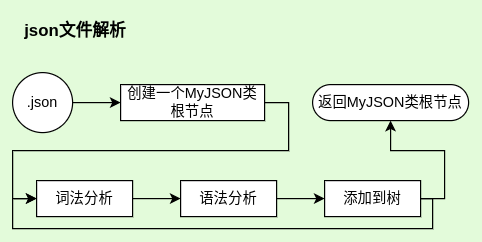
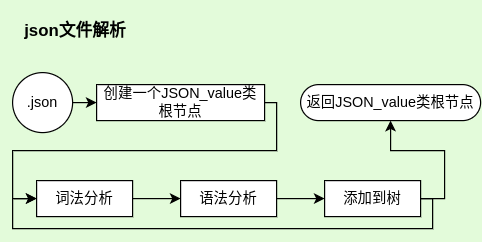
2024.7.15开始构建自己的库

Changed region(s): [[0.5602, 0.3471, 1.0, 0.6364], [0.1556, 0.3471, 0.529, 0.5207]]

diff --git a/MyJSON.h b/MyJSON.h
@@ -1,0 +1,136 @@
+#pragma once
+
+#include<iostream>
+#include<sstream>
+#include<unordered_map>
+#include<vector>
+
+namespace MyJSON
+{
+	/*----------类定义----------*/
+	enum JSONTYPE{Jinitial, Jobject, Jarray,
+					Jstring, Jnumber, Jbool, Jnull};
+	class JSON_value
+	{
+		JSON_value* left = nullptr;
+		JSON_value* right = nullptr;
+		JSONTYPE type = Jinitial;
+
+	public:
+		JSONTYPE Get_type(){return type;}
+
+		JSON_value* Get_left(){return left;}
+		JSON_value* Get_right(){return right;}
+
+		void Set_left(JSON_value* p){left = p;}
+		void Set_right(JSON_value* p){right = p;}
+
+		virtual JSON_value* Parser(std::stringstream& ss);
+		virtual std::ostream& Print(std::stringstream& ss);
+
+		JSON_value(JSONTYPE _type = Jinitial):type(_type){}
+		virtual ~JSON_value(){}
+	};
+
+	class JSON_object: public JSON_value
+	{
+		std::unordered_map<std::string, JSON_value*> child;
+
+	public:
+		JSON_value* Parser(std::stringstream& ss) override;
+		std::ostream& Print(std::stringstream& ss) override;
+
+		JSON_value& operator [] (std::string key);	//index
+		int Get_size(){return child.size();}		//nums of child
+		void Insert(JSON_value* n);					//insert
+
+		JSON_object():JSON_value(Jobject){}
+	};
+
+	class JSON_array: public JSON_value
+	{
+		std::vector<JSON_value*> child;
+
+	public:
+		JSON_value* Parser(std::stringstream& ss) override;
+		std::ostream& Print(std::stringstream& ss) override;
+
+		JSON_value& operator [] (int index);		//index
+		int Get_size(){return child.size();}		//nums of child
+		void Insert_to(int pos, JSON_value* n);		//insert
+
+		JSON_array():JSON_value(Jarray){}
+	};
+
+	class JSON_string: public JSON_value
+	{
+		std::string value;
+
+	public:
+		JSON_value* Parser(std::stringstream& ss) override;
+		std::ostream& Print(std::stringstream& ss) override;
+
+		std::string Get_value(){return value;}
+		void Set_value(std::string _v){value = _v;}
+
+		JSON_string():JSON_value(Jstring){}
+	};
+
+	class JSON_number: public JSON_value
+	{
+		int valueInt = 0;
+		int valueDouble = 0;
+		bool valueType = false;	//false: Int, true: double
+
+	public:
+		JSON_value* Parser(std::stringstream& ss) override;
+		std::ostream& Print(std::stringstream& ss) override;
+
+		int Get_value_int(){return valueInt;}
+		double Get_value_double(){return valueDouble;}
+		bool Get_value_type(){return valueType;}
+		void Set_value(std::string _v);
+
+		JSON_number():JSON_value(Jnumber){}
+	};
+
+	class JSON_bool: public JSON_value
+	{
+		bool value = false;
+
+	public:
+		JSON_value* Parser(std::stringstream& ss) override;
+		std::ostream& Print(std::stringstream& ss) override;
+
+		bool Get_value(){return value;}
+		void Set_value(bool _v){value = _v;}
+
+		JSON_bool():JSON_value(Jbool){}
+	};
+
+	class JSON_null: public JSON_value
+	{
+	public:
+		JSON_value* Parser(std::stringstream& ss) override;
+		std::ostream& Print(std::stringstream& ss) override;
+
+		JSON_null():JSON_value(Jnull){}
+	};
+
+	class JSON_error
+	{
+	public:
+		enum ERRORTYPE
+		{
+			E_No_Error,
+			E_Error_Type,
+			E_File_Cannot_Open,
+		};
+		const std::string Error_Type = "the first type of error";
+		const std::string ERROR2 = "......";
+
+		static void ERROR(ERRORTYPE e, std::ostream& os = std::cout);
+	};
+
+	/*----------类定义----------*/
+}

diff --git a/MyJSON.cpp b/MyJSON.cpp
@@ -1,0 +1,22 @@
+#include"MyJSON.h"
+
+namespace MyJSON
+{
+	JSON_error GlobalError;
+	/*----------类函数----------*/
+	JSON_value* JSON_value::Parser(std::stringstream& ss)
+	{
+		switch (type)
+		{
+			case Jinitial:{
+				char ch = ss.peek();
+				if (ch == '{')
+				{
+					
+				}
+			}
+		}
+	}
+	
+	/*----------类函数----------*/
+}

diff --git a/README.md b/README.md
@@ -41,12 +41,10 @@
 ![json输入流程](./pic_src/parser_file.png)
 
 ### 数据结构
-	class MyJSON							//外部接口类，表示一个json文件
 	class JSON_value						//基类
 
-	class JSON_object: public JSON_value	//object类型数据
-	class JSON_member: public JSON_value	//object下面的‘string:value’对
-	class JSON_array: public JSON_value		//array类型数据
+	class JSON_object: public JSON_value	//object类型数据	通过std::unordered_map<JSON_value>实现
+	class JSON_array: public JSON_value		//array类型数据		通过std::vector<JSON_value>实现
 	class JSON_string: public JSON_value	//string类型数据
 	class JSON_number: public JSON_value	//number类型数据
 	class JSON_bool: public JSON_value		//true,false两个bool型
@@ -123,6 +121,10 @@
 		JSON_value& operator [] (int pos) const;
 		JSON_value& operator [] (const string key_name) const;
 		//看来json_value要重载<<了 :(
+
+		//读取接口
+		JSON_value& parser_file (string path);
+		JSON_value& parser_stream (ostream& os);
 		
 		//有其他遗漏的后面再写进来	orz
 	};

diff --git a/设计文档.md b/设计文档.md
@@ -41,12 +41,10 @@
 ![json输入流程](./pic_src/parser_file.png)
 
 ### 数据结构
-	class MyJSON							//外部接口类，表示一个json文件
 	class JSON_value						//基类
 
-	class JSON_object: public JSON_value	//object类型数据
-	class JSON_member: public JSON_value	//object下面的‘string:value’对
-	class JSON_array: public JSON_value		//array类型数据
+	class JSON_object: public JSON_value	//object类型数据	通过std::unordered_map<JSON_value>实现
+	class JSON_array: public JSON_value		//array类型数据		通过std::vector<JSON_value>实现
 	class JSON_string: public JSON_value	//string类型数据
 	class JSON_number: public JSON_value	//number类型数据
 	class JSON_bool: public JSON_value		//true,false两个bool型
@@ -123,6 +121,10 @@
 		JSON_value& operator [] (int pos) const;
 		JSON_value& operator [] (const string key_name) const;
 		//看来json_value要重载<<了 :(
+
+		//读取接口
+		JSON_value& parser_file (string path);
+		JSON_value& parser_stream (ostream& os);
 		
 		//有其他遗漏的后面再写进来	orz
 	};
